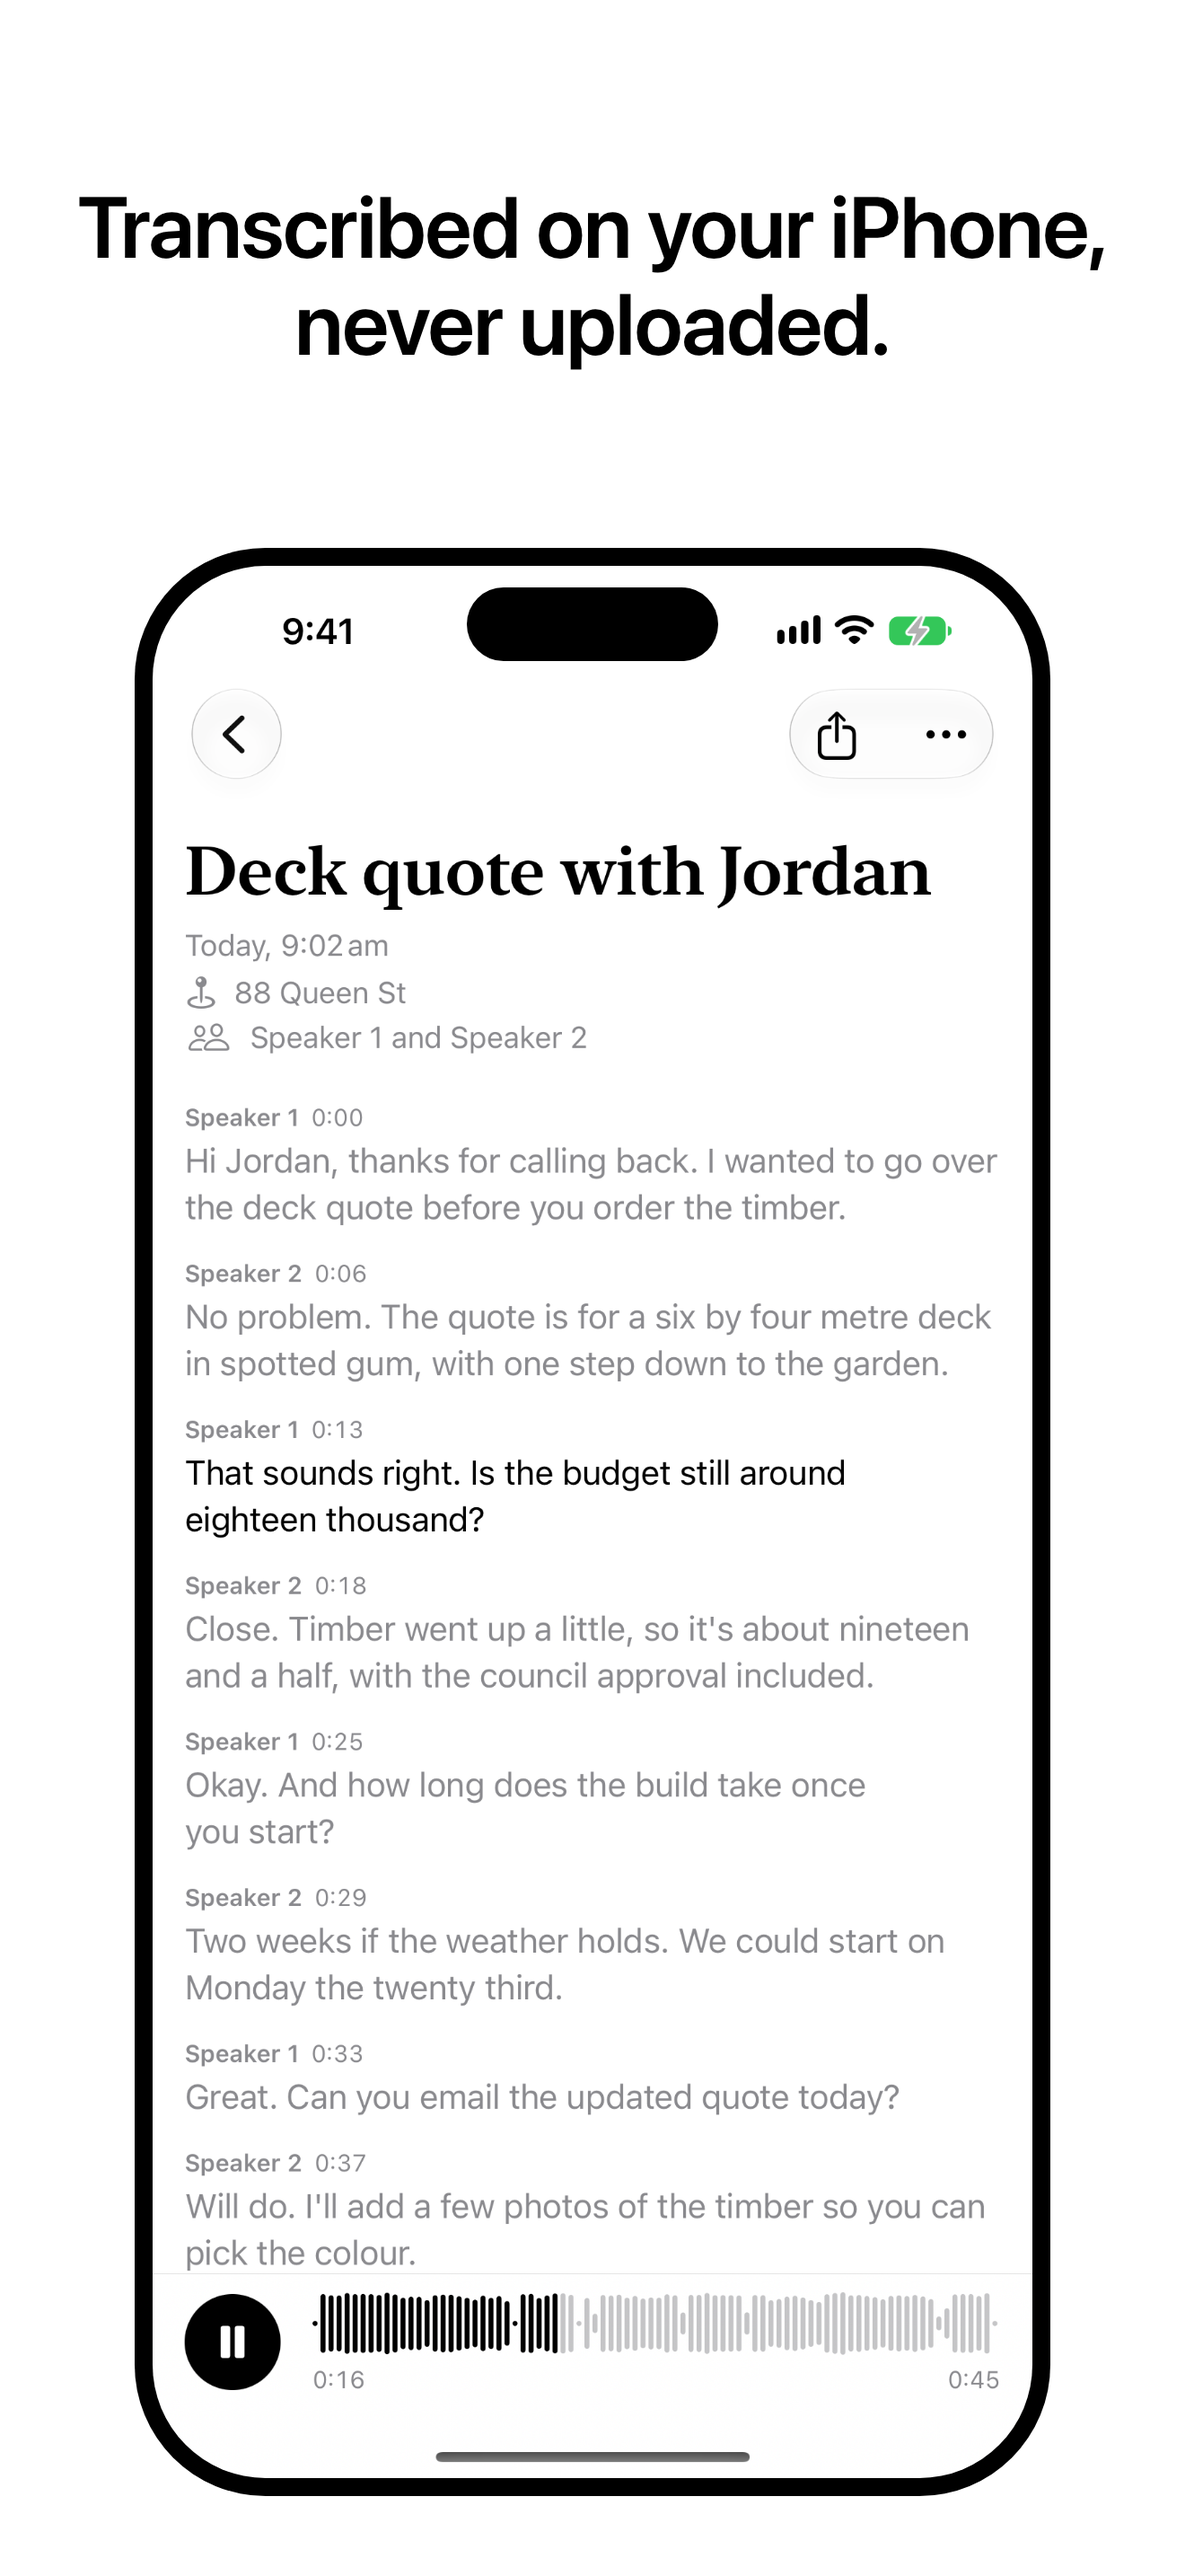
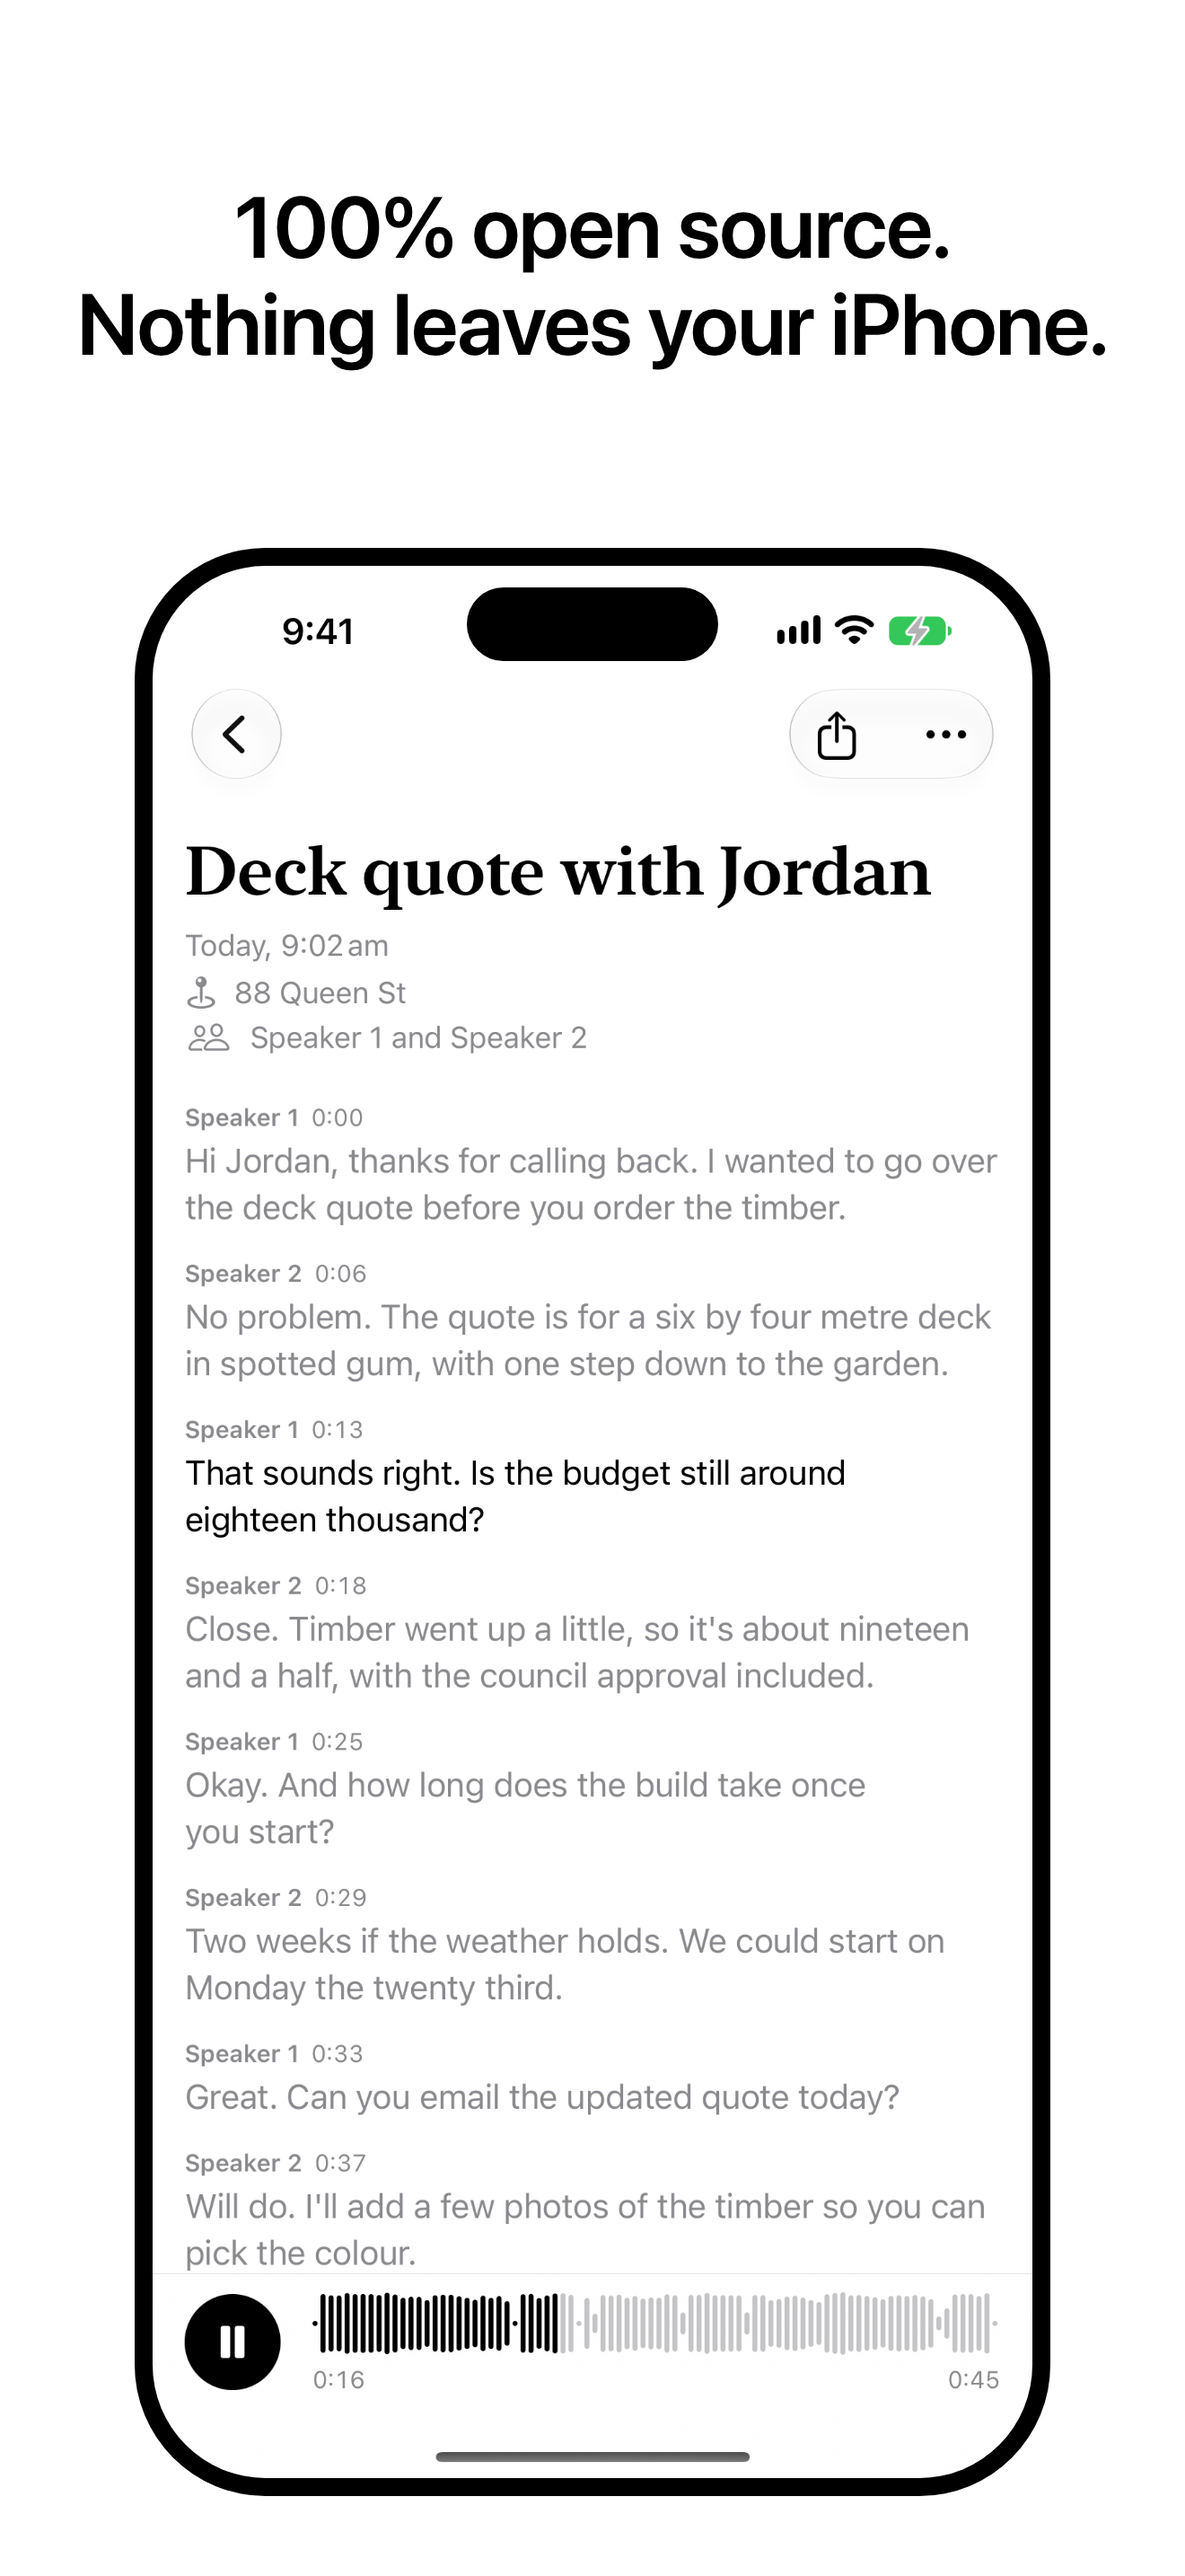
Lead with it: 100% free and 100% open source, and nothing you record leaves your devices (site hero, screenshot 2)

Changed region(s): [[0.0621, 0.0621, 0.9318, 0.1552]]

diff --git a/design/app-store/screens.html b/design/app-store/screens.html
@@ -62,7 +62,7 @@
   // Every image: what it says and which real capture it shows. "\n" is where a caption breaks (two lines each).
   const images = {
     "iphone-1": { caption: "Tap record.\nSona writes it down.", shot: "captures/recording.png" },
-    "iphone-2": { caption: "Transcribed on your iPhone,\nnever uploaded.", shot: "captures/note.png" },
+    "iphone-2": { caption: "100% open source.\nNothing leaves your iPhone.", shot: "captures/note.png" },
     "iphone-3": { caption: "Record from\nyour Apple Watch.", watch: "captures/watch-recording.png" },
     "iphone-4": { caption: "Plain Markdown files\nin your iCloud.", shot: "captures/home-dark.png", dark: true },
     "iphone-5": { caption: "Find any note\nby day or place.", shot: "captures/place.png" },

diff --git a/site/index.html b/site/index.html
@@ -46,7 +46,7 @@
   <div class="hero-copy">
     <h1>Sona</h1>
     <p class="lede">The notetaker that runs on your own devices.</p>
-    <p class="sub">Tap to record on your iPhone or Apple Watch, and it's written down on the phone itself. Free and open source. No account, no server, no tracking.</p>
+    <p class="sub">Tap to record on your iPhone or Apple Watch, and it's written down on the phone itself. 100% free and 100% open source. Nothing you record leaves your devices: no account, no server, no tracking.</p>
     <div class="actions">
       <!-- Placeholder until launch: swap for Apple's official "Download on the App Store" badge,
            linking to https://apps.apple.com/app/id6829732693 -->
